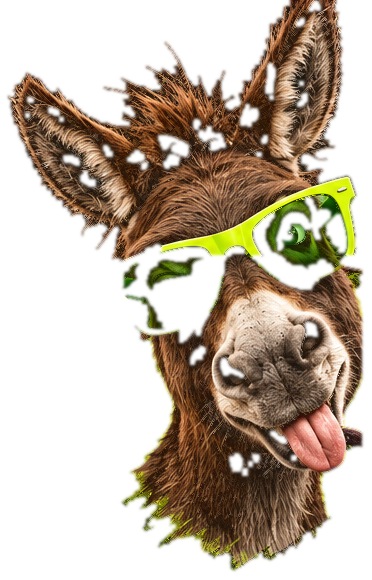
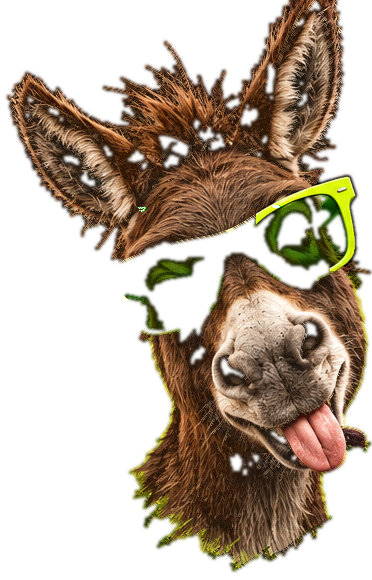
feat(card): owner polish pass — TL accents removed, ass-score.com to bottom-right, sign clear of donkey torso
- src/card.js: D_X 1050->1070 (right edge 1580), SIGN_X 818->700 (right edge 1096);
  TRACK_W 640->596 with MARK_TXT_X clamp so 'you are here' never tucks under the sign;
  ass-score.com text (1516,84)->(1516,870) bottom-right; '100 = MAX ASS' anchored to
  new track end; TL/TLyellow/TLpink2 accents removed (mixed treatment now clean-left).
- src/assets/donkey-sharecard.png: swapped to the fixed 372x580 cutout (body starts at
  asset x 127 -> card x ~1244, so zero donkey pixels sit under the sign).
- test/card.test.js: 4 new region-assertion tests on the final PNG (regions a/b/c/d):
  TL accent box ink-empty for 7/50/93; URL absent top-right + present bottom-right;
  sign header row shows band color + dark title + white paper; donkey-zone alpha in
  the sign band = 0 (body present right of the sign edge); byte-determinism 7/50/93.
  Suite: 288 -> 292, all green.

diff --git a/test/card.test.js b/test/card.test.js
@@ -297,3 +297,126 @@ test('GET /card and /share for a missing id -> 404 with the same JSON error shap
     assert.ok(json.error.message.includes('does-not-exist'), ep);
   }
 });
+
+// ------------------------------------------------- card-polish region tests
+// (owner polish pass 2026-09-24: TL accents removed, ass-score.com moved to
+// the bottom-right, donkey zone shifted right / sign shifted left so the sign
+// no longer covers the torso). All assertions live on the FINAL rendered PNG
+// (or the committed donkey-sharecard.png itself) — never on SVG strings, so a
+// layout regression that survives the SVG but shows up in pixels still fails.
+
+const CARDS = [
+  { score: 7, url: 'https://www.example.com', band: [0x4a, 0xde, 0x80], treat: 'celebrate' },
+  { score: 50, url: 'https://www.example.com', band: [0xfb, 0x92, 0x3c], treat: 'warn' },
+  { score: 93, url: 'https://www.example.com', band: [0xf8, 0x71, 0x71], treat: 'alarm' },
+];
+
+async function cardRaw(svg) {
+  const { data, info } = await sharp(svg).raw().toBuffer({ resolveWithObject: true });
+  return { data, info, png: svg };
+}
+
+function countRegion(data, info, x0, y0, x1, y1, pred) {
+  let n = 0;
+  for (let y = y0; y < y1; y += 1) {
+    for (let x = x0; x < x1; x += 1) {
+      const i = (y * info.width + x) * info.channels;
+      if (pred(data[i], data[i + 1], data[i + 2])) n += 1;
+    }
+  }
+  return n;
+}
+
+const lum = (r, g, b) => 0.2126 * r + 0.7152 * g + 0.0722 * b;
+const grayish = (r, g, b) => Math.abs(r - g) <= 12 && Math.abs(g - b) <= 12 && Math.abs(r - b) <= 12 && r > 50;
+const matchRgb = (r, g, b, [tr, tg, tb], tol = 14) =>
+  Math.abs(r - tr) <= tol && Math.abs(g - tg) <= tol && Math.abs(b - tb) <= tol;
+
+test('card polish (a): old top-left accent box (870-945, 92-135) is ink-empty for CLEANEST / VERY ASS / CATASTROPHICALLY ASS', async () => {
+  const accentColors = { celebrate: null, warn: [0xfa, 0xcc, 0x15], alarm: [0xff, 0x3d, 0x8e] }; // old TL white / TLyellow / TLpink2
+  for (const { score, treat } of CARDS) {
+    const { data, info } = await cardRaw(await renderCardPng(buildCardSvg({ score, url: 'https://www.example.com' })));
+    assert.equal(info.width, CARD_WIDTH);
+    assert.equal(info.height, CARD_HEIGHT);
+    const check = (pred) => countRegion(data, info, 870, 92, 945, 135, pred);
+    assert.equal(check((r, g, b) => lum(r, g, b) > 180), 0, `score ${score}: no bright near-white tick strokes`);
+    assert.equal(check((r, g, b) => r + g + b > 30), 0, `score ${score}: region holds NO ink at all`);
+    const accent = accentColors[treat];
+    if (accent) {
+      assert.equal(
+        check((r, g, b) => matchRgb(r, g, b, accent, 12)),
+        0, `score ${score}: old TL accent color absent`);
+    }
+  }
+});
+
+test('card polish (b): ass-score.com URL moved out of the top-right text band into the bottom-right band', async () => {
+  for (const { score } of CARDS) {
+    const { data, info } = await cardRaw(await renderCardPng(buildCardSvg({ score, url: 'https://www.example.com' })));
+    const topRight = countRegion(data, info, 1380, 70, 1520, 100, grayish);
+    assert.equal(topRight, 0, `score ${score}: no URL-text (grayish-white) ink in the old top-right text band`);
+    // The band is not vacuous: the treatment accent (lime star / pink ticks)
+    // still lives top-right, so a missing text check is meaningful.
+    const accentInk = countRegion(data, info, 1380, 70, 1520, 100, (r, g, b2) => r + g + b2 > 30);
+    assert.ok(accentInk > 100, `score ${score}: top-right still carries accent ink (${accentInk} px)`);
+    const bottomRight = countRegion(data, info, 1280, 852, 1520, 872, grayish);
+    assert.ok(bottomRight > 200, `score ${score}: URL text present in the bottom-right band (${bottomRight} px)`);
+  }
+});
+
+test('card polish (c): sign header fully visible — no donkey pixels cover the sign; sign clear of the torso', async () => {
+  for (const { score, band } of CARDS) {
+    const { data, info } = await cardRaw(await renderCardPng(buildCardSvg({ score, url: 'https://www.example.com' })));
+    // Row band across the sign header (y 565-585, x 700-1100): the band-colored
+    // header, the dark "A.S.S. SCORE / OFFICIAL" title text and the white paper
+    // must all be present — the sign face renders unobstructed.
+    const dark = countRegion(data, info, 700, 565, 1100, 585, (r, g, b2) => r < 60 && g < 60 && b2 < 60);
+    const header = countRegion(data, info, 700, 565, 1100, 585, (r, g, b2) => matchRgb(r, g, b2, band));
+    const paper = countRegion(data, info, 700, 565, 1100, 585, (r, g, b2) => matchRgb(r, g, b2, [0xf2, 0xf1, 0xea]));
+    assert.ok(dark > 100, `score ${score}: dark title text visible on the sign (${dark} px)`);
+    assert.ok(header > 2000, `score ${score}: band-colored header visible (${header} px)`);
+    assert.ok(paper > 500, `score ${score}: white sign paper visible (${paper} px)`);
+  }
+
+  // Donkey-zone alpha coverage in the sign band (card y 538-774 -> asset y
+  // 344-517, asset 372x580 mapped 1:1 into the 510x795 card zone). NEW sign
+  // spans card x 700-1096 -> asset x 0-19; the old layout (SIGN_X 818, D_X 1050)
+  // spanned asset x 0-119 and its rotated edge reached the torso. The fixed
+  // asset's body starts at asset x >= 120, so the sign now overlaps ZERO
+  // donkey pixels while the torso remains present to its right.
+  const asset = fs.readFileSync(new URL('../src/assets/donkey-sharecard.png', import.meta.url));
+  const { data: adata, info: ainfo } = await sharp(asset).raw().toBuffer({ resolveWithObject: true });
+  assert.equal(ainfo.width, 372, 'asset is the 372px-wide share-card cutout');
+  assert.equal(ainfo.height, 580);
+  const opaqueIn = (x0, x1) => {
+    let n = 0;
+    for (let y = 344; y < 517; y += 1) {
+      for (let x = x0; x < x1; x += 1) {
+        if (adata[(y * ainfo.width + x) * 4 + 3] > 10) n += 1;
+      }
+    }
+    return n;
+  };
+  assert.equal(opaqueIn(0, 20), 0, 'new sign overlap sliver (asset x 0-19) contains no donkey pixels');
+  const body = opaqueIn(120, ainfo.width);
+  assert.ok(body > 20000, `torso present right of the sign edge (${body} opaque px in band)`);
+  // The body's left edge is well clear of the new sign right edge (asset x 19):
+  let minX = ainfo.width;
+  for (let y = 344; y < 517; y += 1) {
+    for (let x = 120; x < ainfo.width; x += 1) {
+      if (adata[(y * ainfo.width + x) * 4 + 3] > 10 && x < minX) minX = x;
+    }
+  }
+  assert.ok(minX >= 120, `torso left edge at asset x ${minX} — clear of sign edge x 19`);
+});
+
+test('card polish (d): byte-determinism — two renders of the same inputs are identical PNGs (7 / 50 / 93)', async () => {
+  for (const { score, url } of CARDS) {
+    const a = await renderCardPng(buildCardSvg({ score, url }));
+    const b = await renderCardPng(buildCardSvg({ score, url }));
+    assert.ok(a.equals(b), `score ${score}: two renders -> identical PNG bytes`);
+    const meta = await sharp(a).metadata();
+    assert.equal(meta.width, CARD_WIDTH);
+    assert.equal(meta.height, CARD_HEIGHT);
+  }
+});

diff --git a/src/card.js b/src/card.js
@@ -151,35 +151,36 @@ export function buildCardSvg({ score, url }) {
   const numW = digits.length * 0.6 * numSize; // Anton is condensed (~.60em/digit incl ls)
   const NUM_X = 84; const NUM_BASE = 560;                 // giant number baseline
   const OF_X = NUM_X + numW + 22; const OF_BASE = NUM_BASE + 26; // /100 baseline
-  const TRACK_X = 84; const TRACK_Y = 610; const TRACK_W = 640;
+  const TRACK_X = 84; const TRACK_Y = 610; const TRACK_W = 596; // ends at 680: clear of the sign's rotated left edge (~700-705)
   const M_X = TRACK_X + Math.max(0, Math.min(1, s / 100)) * TRACK_W; // you-are-here marker
+  const MARK_TXT_X = Math.min(M_X, TRACK_X + TRACK_W - 64); // label never tucks under the paper sign at high scores
   const STAMP_FS = 34; const STAMP_PAD_X = 42; const STAMP_H = 64;
   const stampW = label.length * 0.6 * STAMP_FS + STAMP_PAD_X * 2;
   const STAMP_X = 84; const STAMP_Y = 700;
   // Donkey cutout zone — sized to the approved donkey-sharecard.png portrait
   // (372×580, aspect 0.6414): box 510×795 matches that aspect exactly, so the
-  // slice renders the full silhouette with no crop; right edge stays at the
-  // old 1560 (40px card margin), the paper sign overlaps the lower body.
-  const D_X = 1050; const D_Y = 66; const D_W = 510; const D_H = 795;
-  const SIGN_X = 818; const SIGN_Y = 538; const SIGN_W = 396; const SIGN_H = 236; // paper sign
+  // slice renders the full silhouette with no crop. Right edge at 1580 (20px
+  // card margin — owner-polish pass 2026-09-24); the paper sign now sits LEFT
+  // of the torso (overlap with the donkey zone is only its 26px left sliver,
+  // which contains no donkey pixels).
+  const D_X = 1070; const D_Y = 66; const D_W = 510; const D_H = 795;
+  const SIGN_X = 700; const SIGN_Y = 538; const SIGN_W = 396; const SIGN_H = 236; // paper sign
   const DISC_Y = 846;
 
-  /* accents per treatment (corners of the donkey zone) */
-  const TL = '<g transform="translate(880,96)">' + ticks(false) + '</g>'; // white spark ticks
+  /* accents per treatment (top-right corner of the donkey zone only — the
+   * top-left variants were removed as owner-flagged strays, 2026-09-24) */
   const TRstar = '<g transform="translate(1470,60) scale(1.4)">' + star() + '</g>' +
     '<g transform="translate(1516,136) scale(.9)">' + star() + '</g>';
   const TRstar1 = '<g transform="translate(1484,70) scale(1.2)">' + star() + '</g>';
   const TRpink1 = '<g transform="translate(1480,84)">' + ticks(true, 1) + '</g>';
   const TRpink2 = '<g transform="translate(1462,64) scale(1.25)">' + ticks(true, 2) + '</g>';
-  const TLpink2 = '<g transform="translate(872,80) scale(1.15)">' + ticks(true, 2) + '</g>';
-  const TLyellow = '<g transform="translate(884,96)">' + ticks(false, 1, '#facc15') + '</g>';
   let accents = '';
-  if (treat === 'celebrate') accents = TL + TRstar;
-  else if (treat === 'positive') accents = TL + TRstar1;
-  else if (treat === 'mixed') accents = TL;
-  else if (treat === 'warn') accents = TLyellow + TRpink1;
-  else if (treat === 'chaos') accents = TL + TRpink2;
-  else /* alarm */ accents = TLpink2 + TRpink2;
+  if (treat === 'celebrate') accents = TRstar;
+  else if (treat === 'positive') accents = TRstar1;
+  else if (treat === 'mixed') accents = ''; // left side stays clean by design
+  else if (treat === 'warn') accents = TRpink1;
+  else if (treat === 'chaos') accents = TRpink2;
+  else /* alarm */ accents = TRpink2;
 
   const stampEllipse = treat === 'alarm'
     ? '<svg x="' + (STAMP_X - 26) + '" y="' + (STAMP_Y - 30) + '" width="' + (stampW + 52) + '" height="124" viewBox="0 0 ' + (stampW + 52) + ' 124" overflow="visible">' +
@@ -211,7 +212,7 @@ export function buildCardSvg({ score, url }) {
     <text x="82" y="88" font-family="Anton" font-size="54" fill="#d4f000" letter-spacing="2">A.S.S. SCORE</text>
     <g transform="translate(84,104)"><svg width="430" height="16" viewBox="0 0 150 16" preserveAspectRatio="none">${scrib('#d4f000', true)}</svg></g>
   </g>
-  <text x="1516" y="84" text-anchor="end" font-family="Inter" font-weight="700" font-size="16" fill="rgba(255,255,255,.38)" letter-spacing="1.5">ass-score.com</text>
+  <text x="1516" y="870" text-anchor="end" font-family="Inter" font-weight="700" font-size="16" fill="rgba(255,255,255,.38)" letter-spacing="1.5">ass-score.com</text>
 
   <text x="86" y="168" font-family="Caveat" font-weight="600" font-size="24" fill="rgba(255,255,255,.55)" letter-spacing="1">SCANNED WEBSITE</text>
   <text x="84" y="216" font-family="Inter" font-weight="800" font-size="34" fill="#ffffff">${host}</text>
@@ -221,10 +222,10 @@ export function buildCardSvg({ score, url }) {
   <text x="${OF_X}" y="${OF_BASE}" font-family="Inter" font-weight="800" font-size="52" fill="rgba(255,255,255,.38)">/ 100</text>
 
   <rect x="${TRACK_X}" y="${TRACK_Y}" width="${TRACK_W}" height="12" rx="6" fill="url(#ramp)" opacity=".92"/>
-  <text x="${M_X}" y="${TRACK_Y - 14}" text-anchor="middle" font-family="Caveat" font-weight="700" font-size="21" fill="#ffffff">you are here</text>
+  <text x="${MARK_TXT_X}" y="${TRACK_Y - 14}" text-anchor="middle" font-family="Caveat" font-weight="700" font-size="21" fill="#ffffff">you are here</text>
   <path d="M${M_X - 9} ${TRACK_Y - 4} L${M_X} ${TRACK_Y + 8} L${M_X + 9} ${TRACK_Y - 4} Z" fill="#ffffff"/>
   <text x="84" y="${TRACK_Y + 38}" font-family="Caveat" font-weight="600" font-size="20" fill="rgba(255,255,255,.6)">0 = LEAST ASS</text>
-  <text x="724" y="${TRACK_Y + 38}" text-anchor="end" font-family="Caveat" font-weight="600" font-size="20" fill="rgba(255,255,255,.8)">100 = MAX ASS</text>
+  <text x="${TRACK_X + TRACK_W - 4}" y="${TRACK_Y + 38}" text-anchor="end" font-family="Caveat" font-weight="600" font-size="20" fill="rgba(255,255,255,.8)">100 = MAX ASS</text>
 
   ${stampEllipse}
   <g transform="rotate(-2.5 ${STAMP_X + stampW / 2} ${STAMP_Y + STAMP_H / 2})">
